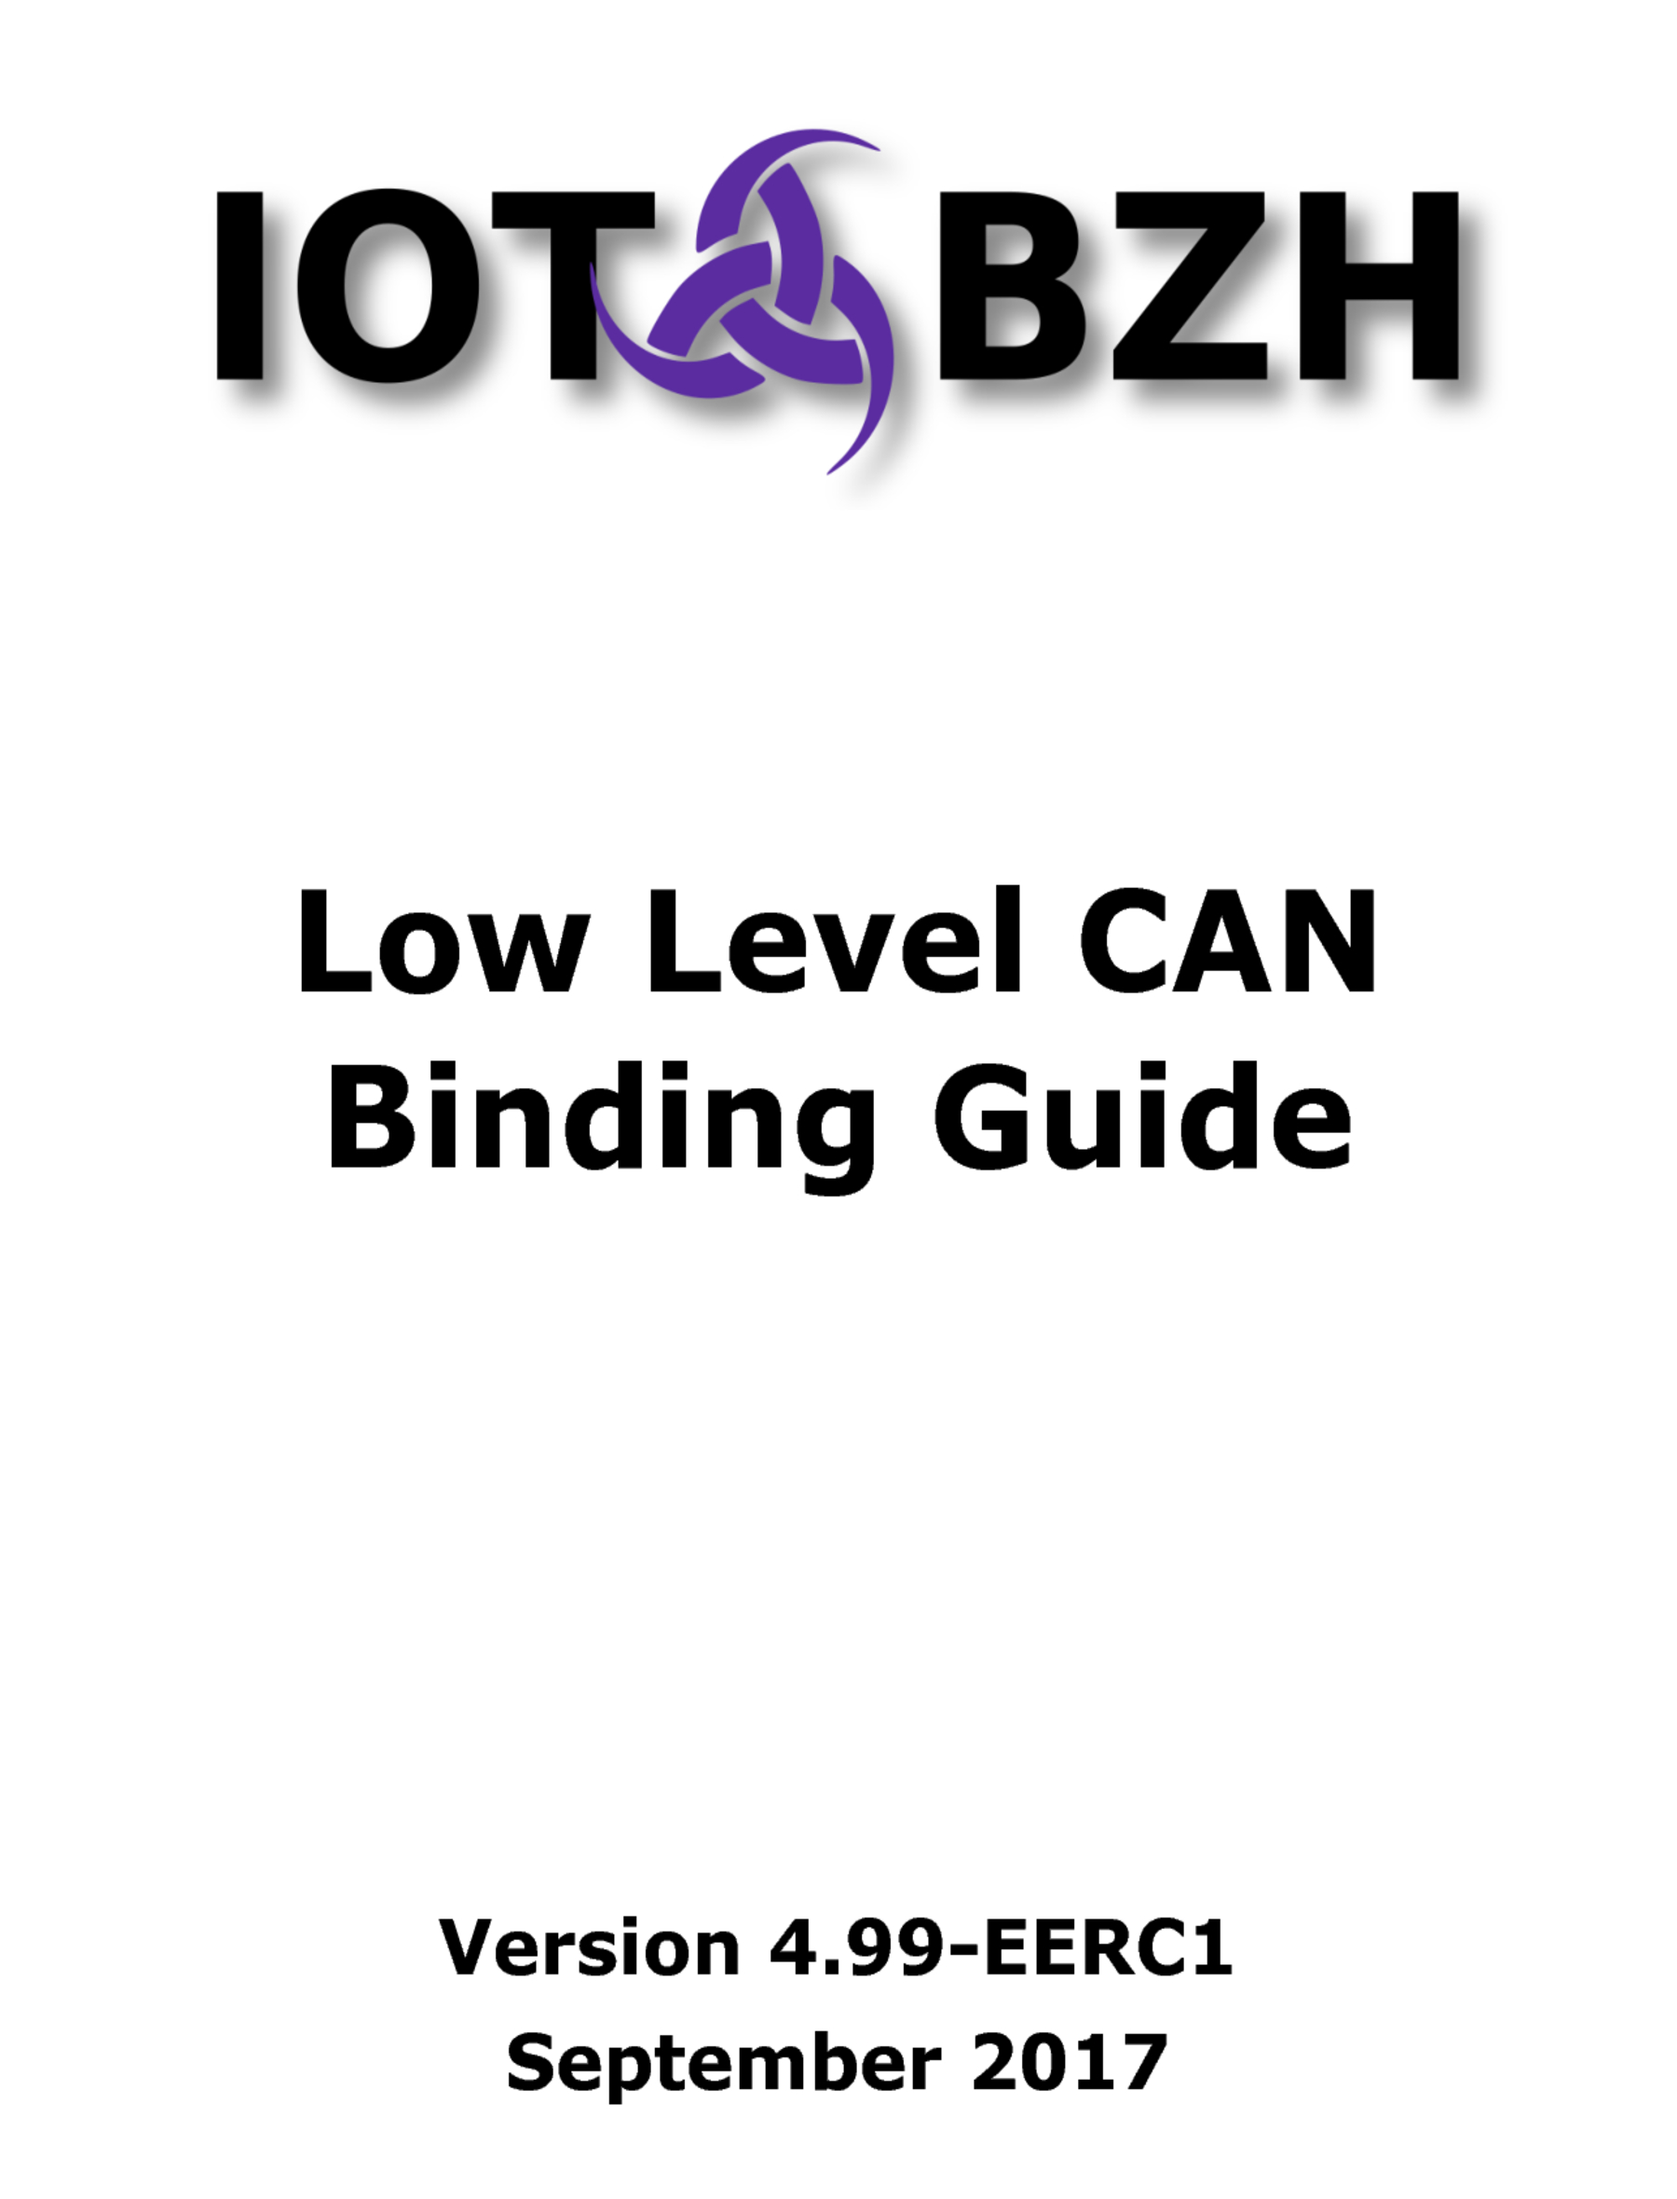
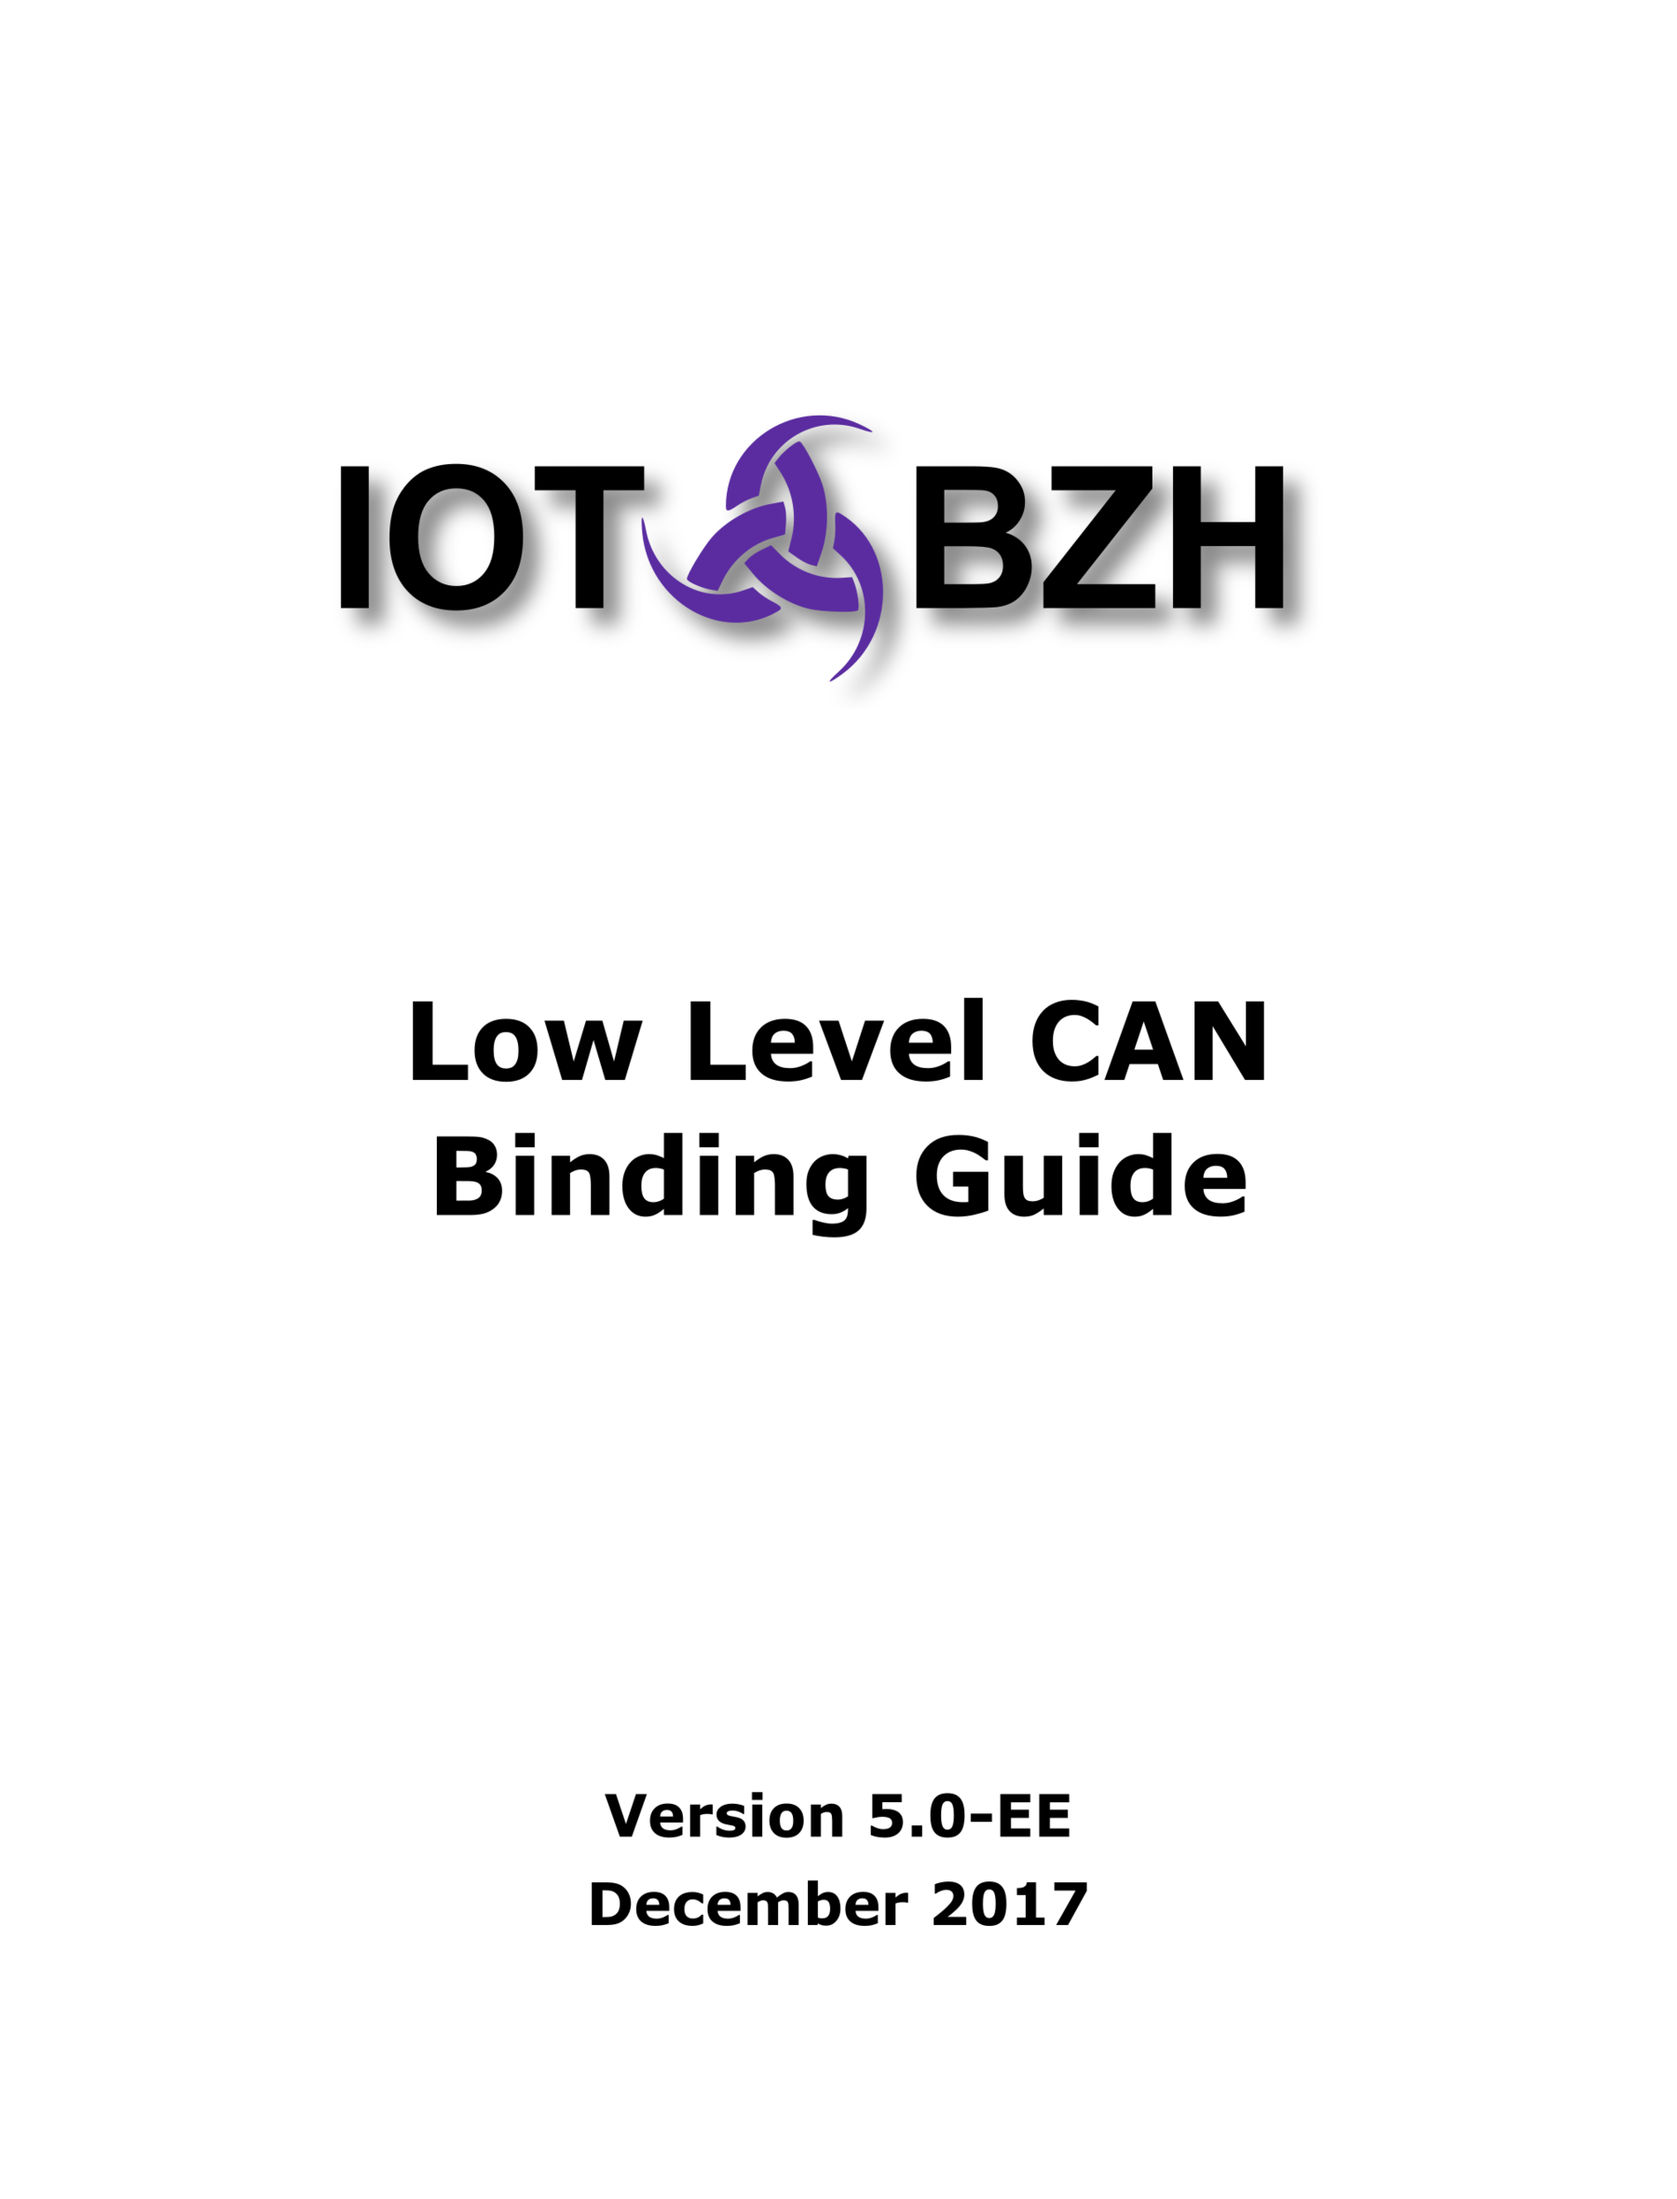
docs: bump version to 5.0-EE

Changed region(s): [[0.1244, 0.0619, 0.9022, 0.3093], [0.1556, 0.4021, 0.84, 0.5568], [0.2489, 0.8042, 0.7467, 0.9589]]

diff --git a/docs/Doc-Revisions.md b/docs/Doc-Revisions.md
@@ -6,3 +6,4 @@ Document revisions
 | 20 Mar 2017 |   1.0   | Initial release                      | R. Forlot [ Iot.bzh ] <br/> S. Douheret [ Iot.bzh ] |
 | 20 Jun 2017 |   4.0   | Update documentation with new v4.0 features | R. Forlot [ Iot.bzh ] <br/> S. Douheret [ Iot.bzh ] |
 | 18 Sep 2017 |   4.99-EERC1   | Update documentation with new EEL features (get,list, write)| R. Forlot [ Iot.bzh ] <br/> S. Douheret [ Iot.bzh ] |
+| 20 Dec 2017 |   5.0-EE | Update version for EE| R. Forlot [ Iot.bzh ] |
